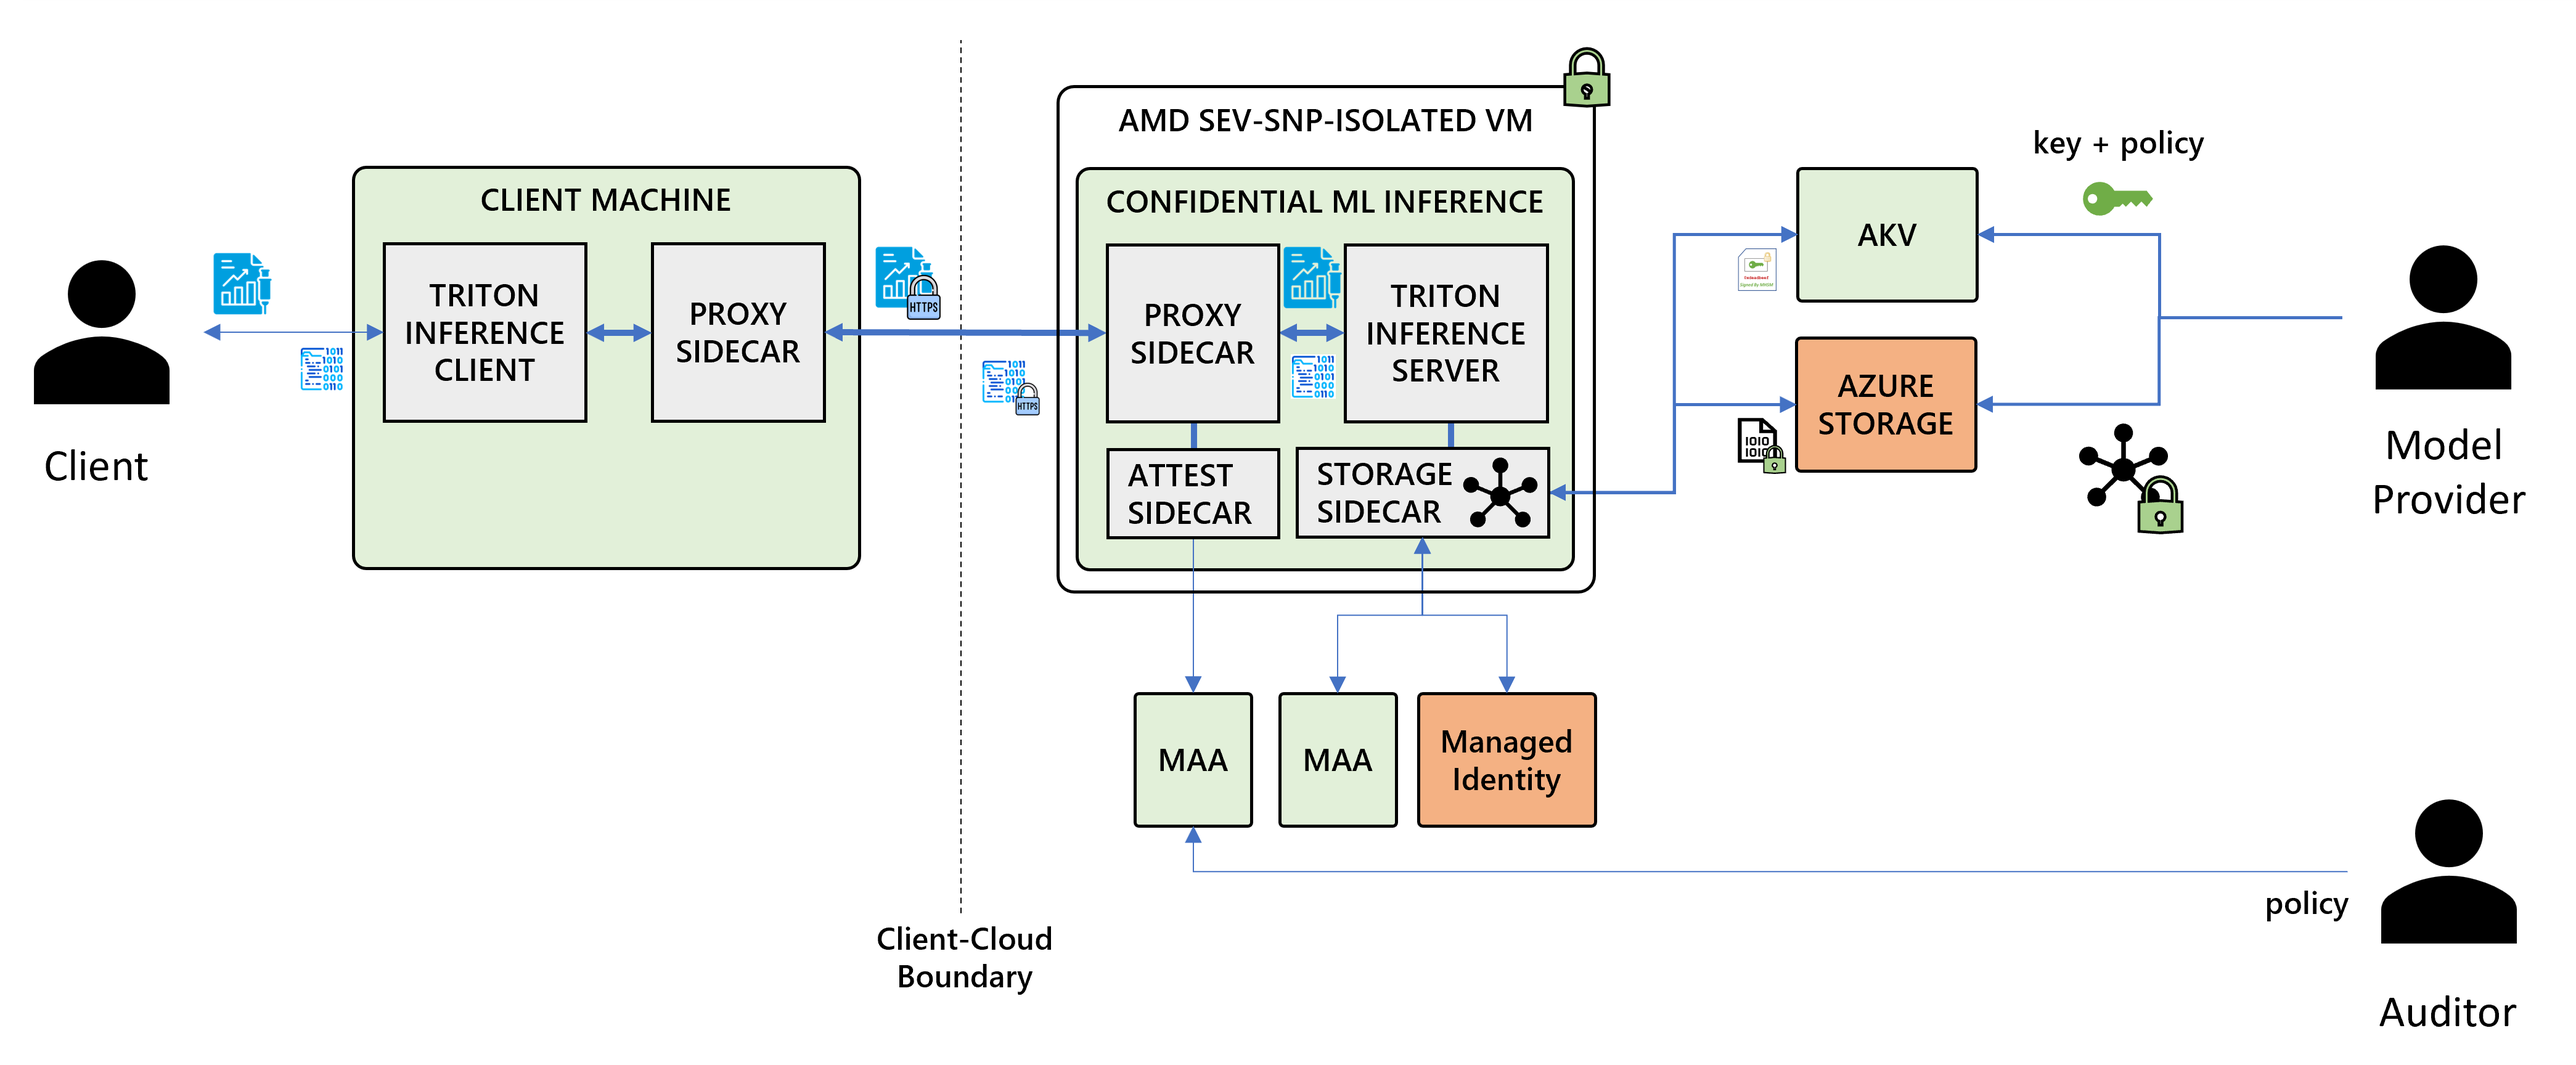
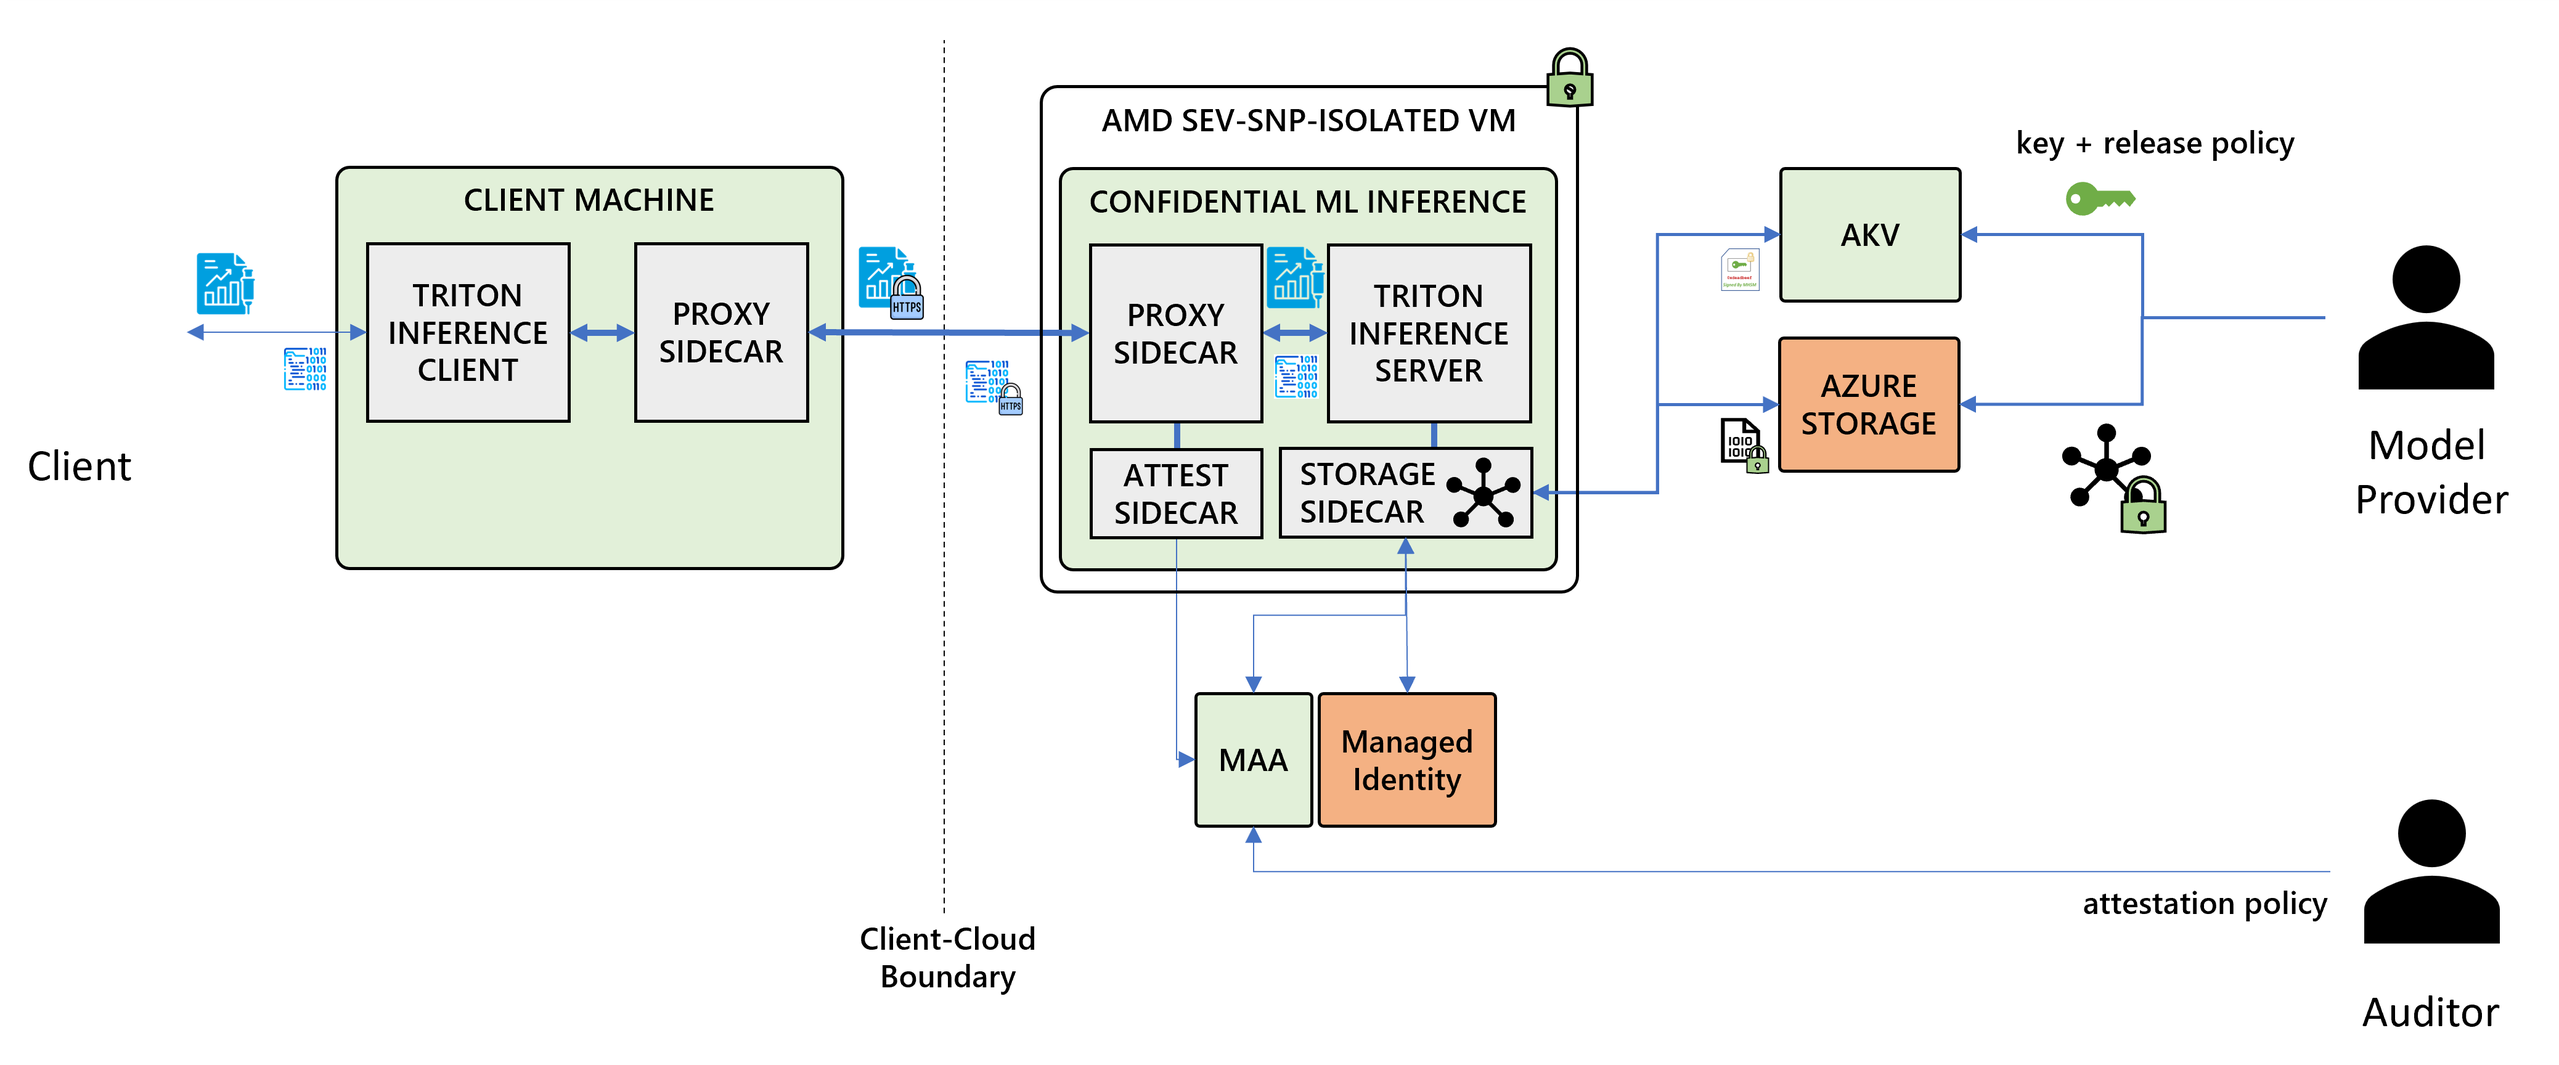
Updated arch to use only one MAA instance

diff --git a/inference/docs/arch.md b/inference/docs/arch.md
@@ -39,11 +39,13 @@ Under this threat model, we wish to guarantee the following properties.
 
 The figure above illustrates the architecure of the proposed confidential ML inference service. 
 
-**Preperation.** The model provider signs and encrypts the model in a clean room (on their premises). Signing is done using private/public cryptography (e.g., elliptic-curve) and encryption is done using an AES variant. The provider then uploads the encrypted model and the encryption key to Azure Storage and Azure Key Vault, referred to as AKV. The model provider also provisions a user-assigned managed identity, which is assigned the required Azure Resource Control roles for the Azure Storage and AKV resources. The auditor instantiates a Microsoft Azure Attestation (MAA) instance that is configured with a custom policy. The custom policy verifies that the service's configuration and environment is trustworthy---e.g., whether the service runs within an SNP environment, whether the UVM is compliant, the security policy hash digest matches the expected one, debugging is disabled, etc.
+**Preperation.** The model provider signs and encrypts the model in a clean room (on their premises). Signing is done using private/public cryptography (e.g., elliptic-curve) and encryption is done using an AES variant. The provider then uploads the encrypted model and the encryption key to Azure Storage and Azure Key Vault, referred to as AKV. The model provider also provisions a user-assigned managed identity, which is assigned the required Azure Resource Control roles for the Azure Storage and AKV resources. 
 
-**Deployment.** The service comprises the Triton inference server and a collection of sidecar containers, responsible for providing attested TLS connection between the client and server and access to encrypted filesystems. The proxy sidecar, responsible for transparent attested TLS, possesses two certificates: one domain certificate and one TEE-specific self-signed certificate. The proxy sidecar utilizes the attestation sidecar to retrieve a TEE-specific token via Microsoft Azure Attestation (MAA) that captures the self-signed certificate as a claim. The storage sidecar utilizes three identity tokens: a token for authenticating with Azure Storage and another one for authenticating with Azure Key Vault, and a TEE-specific token via MAA for authorizing secure key release. The first two tokens are retrieved via the managed identity assigned to the container group during deployment. 
+The auditor instantiates a Microsoft Azure Attestation (MAA) instance that is configured with a custom attestation policy. In essence, enforcement of this policy verifies confirms that the service's configuration and environment are trustworthy; for instance the policy specifies whether the service shall run within an SNP environment, a compliant UVM, the security policy hash digest matches the expected one, the debugging is disabled. 
 
-The TEE-specific tokens are issued by MAA in response of validating the attestation report against the certificate chain endording the attestation signing key. The token authors various claims capturing the security properties of the VM (hosting the container group.)
+**Deployment.** The service comprises the Triton inference server and a collection of sidecar containers, responsible for providing attested TLS connection between the client and server and access to encrypted filesystems. The proxy sidecar, responsible for transparent attested TLS, possesses two certificates: one domain certificate and one TEE-specific self-signed certificate. The proxy sidecar utilizes the attestation sidecar to retrieve a TEE-specific token via MAA that captures the self-signed certificate as a claim. The storage sidecar utilizes three identity tokens: a token for authenticating with Azure Storage and another one for authenticating with Azure Key Vault, and a TEE-specific token via MAA for authorizing secure key release. The first two tokens are retrieved via the managed identity assigned to the container group during deployment. 
+
+The TEE-specific tokens are issued by MAA. In the process, the MAA instance validates that the report is genuine and that it has been issued by a genuine AMD CPU by validating its signature using the attestation signing key endorsed by the CPU's certificate chain. Once the report genuinity is confirmed, the MAA instance verifies that the report satisfies the custom attestation policy. In response, the MAA issues a token capturing the security properities of the Utility VM.
 
 The client uses an http proxy that establishes an attested TLS connection with the attested service, over which they submit inference requests.
 
@@ -52,9 +54,9 @@ The server is deployed as a container group consisting of the inference containe
 
 *Inference Container.* We utilize a container running the NVIDIA Triton inference server built for CPU-only inference of ONNX runtime models. We extend the container with model attestation, which entails verifying the model using the public key of the model signer before the inference server is started. The public key is passed as a base64-encoded string attribute to the container’s entry point, and hence is included in the attestable security policy.
 
-*Encrypted Filesystem Container.* We utilize a sidecar container to mount a remote encrypted filesystem (storing the model and its signature) previously uploaded to Azure Blob Storage by the model provider. The filesystem is encrypted using a key owned by the model provider, which has been imported to Azure Key Vault and is bound to a key release policy. 
+*Encrypted Filesystem Container.* We utilize a sidecar container to mount a remote encrypted filesystem (storing the model and its signature) previously uploaded to Azure Blob Storage by the model provider. The filesystem is encrypted using a key owned by the model provider, which has been imported to AKV and is bound to a key release policy. 
 
-The sidecar container transparently retrieves the hardware attestation and the certificate chain endorsing the attestation’s signing key. It then requests Microsoft Azure Attestation (MAA) to authorize an attestation token, which is required for securely releasing the filesystem’s encryption key from Azure Key Vault. The key is released to the sidecar container only if the attestation token is signed by the expected authority and the attestation claims match the key’s release policy. Finally, the sidecar container transparently uses the key to mount the remote encrypted filesystem; this process will preserve the confidentiality and integrity of the filesystem upon any operation from a container running within the container group.
+The sidecar container transparently retrieves the hardware attestation and the certificate chain endorsing the attestation’s signing key. It then requests MAA to authorize an attestation token, which is required for securely releasing the filesystem’s encryption key from AKV. The key is released to the sidecar container only if the attestation token is signed by the expected authority and the attestation claims match the key’s release policy. Finally, the sidecar container transparently uses the key to mount the remote encrypted filesystem; this process will preserve the confidentiality and integrity of the filesystem upon any operation from a container running within the container group.
 
 *Attestation Container.* We utilize a sidecar container to expose a local REST API (to containers running within the container group) over which they can retrieve a raw attestation report or an MAA token.
 
